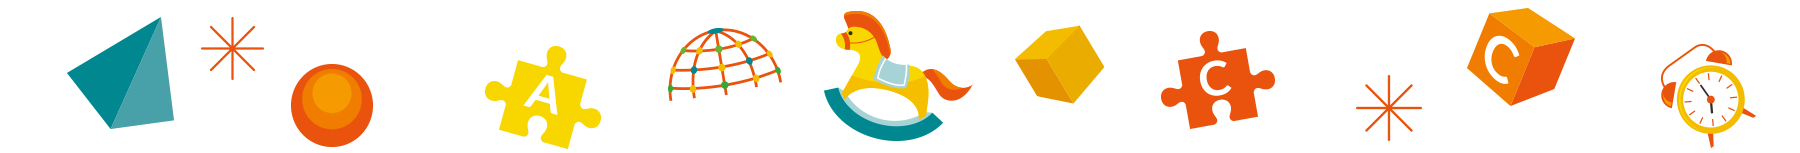
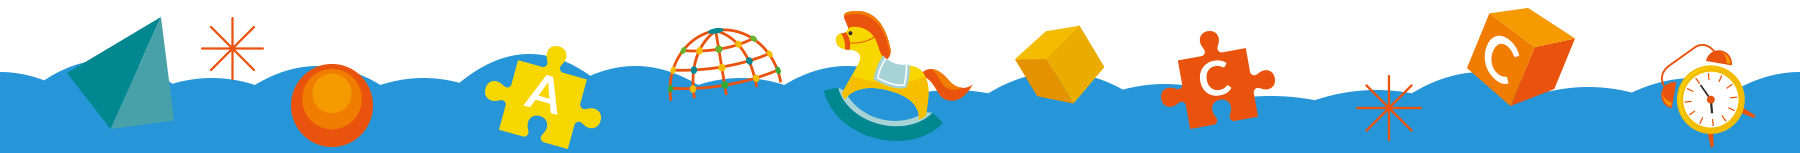
used fixed image for footer

diff --git a/components/Footer.js b/components/Footer.js
@@ -1,20 +1,9 @@
 export default function Footer() {
   return (
-    <>
-      <svg
-        className="fill-current stroke-current text-my-blue"
-        xmlns="http://www.w3.org/2000/svg"
-        version="1.1"
-        width="100%"
-        height="120"
-        viewBox="0 0 85 100"
-        preserveAspectRatio="none"
-      >
-        <path d="M-5 100 Q 0 20 5 100 Z M0 100 Q 5 0 10 100 M5 100 Q 10 30 15 100 M10 100 Q 15 10 20 100 M15 100 Q 20 30 25 100 M20 100 Q 25 -10 30 100 M25 100 Q 30 10 35 100 M30 100 Q 35 30 40 100 M35 100 Q 40 10 45 100 M40 100 Q 45 50 50 100 M45 100 Q 50 20 55 100 M50 100 Q 55 40 60 100 M55 100 Q 60 60 65 100 M60 100 Q 65 50 70 100 M65 100 Q 70 20 75 100 M70 100 Q 75 45 80 100 M75 100 Q 80 30 85 100 M80 100 Q 85 20 90 100 M85 100 Q 90 50 95 100 M90 100 Q 95 25 100 100 M95 100 Q 100 15 105 100 Z"></path>
-      </svg>
-      <footer className="text-white bg-my-blue">
-        <img src="images/footer.png" className="-mt-24" alt="" />
-        <div className="grid max-w-6xl grid-cols-3 gap-4 mx-auto my-6">
+    <footer className="text-white ">
+      <img src="images/footer.png" alt="" />
+      <div className="bg-my-blue">
+        <div className="grid max-w-6xl grid-cols-3 gap-4 mx-auto">
           <div>
             <a className="block py-1" href="/">
               Link 1
@@ -86,6 +75,7 @@ export default function Footer() {
             </a>
           </div>
         </div>
+
         <div className="py-4 text-center bg-my-green">
           <p className="text-sm text-gray-100">
             "Σκέψη & Λέξη" - Υπηρεσίες Λογοθεραπείας © 2009-2021 • hosted by
@@ -97,7 +87,7 @@ export default function Footer() {
             </a>
           </p>
         </div>
-      </footer>
-    </>
+      </div>
+    </footer>
   );
 }
